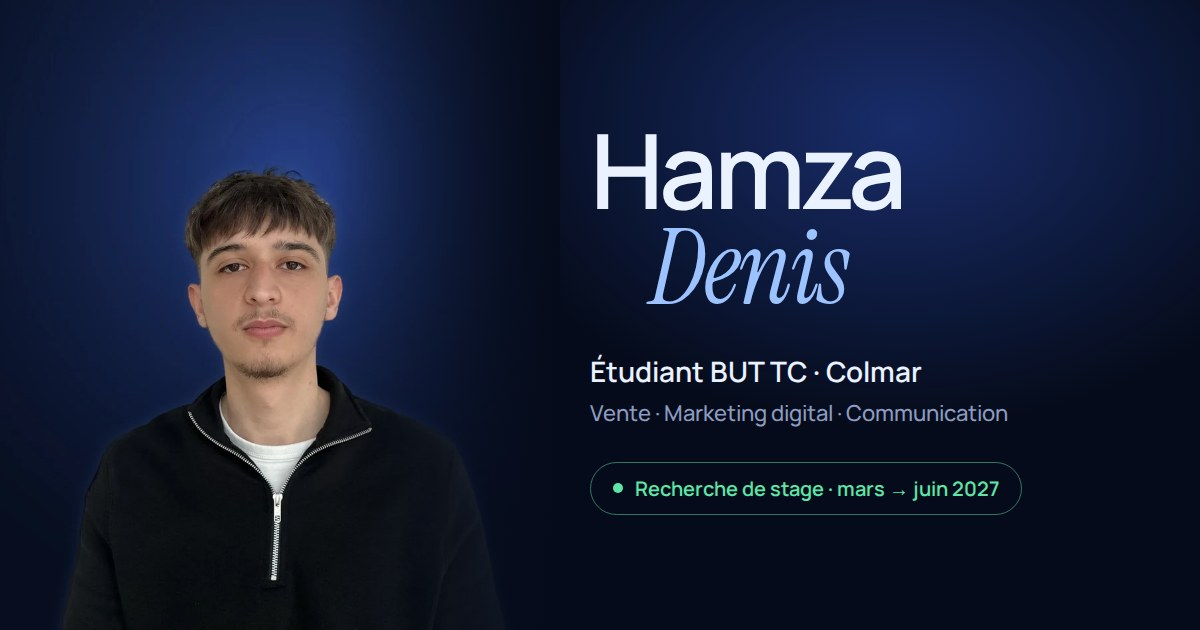
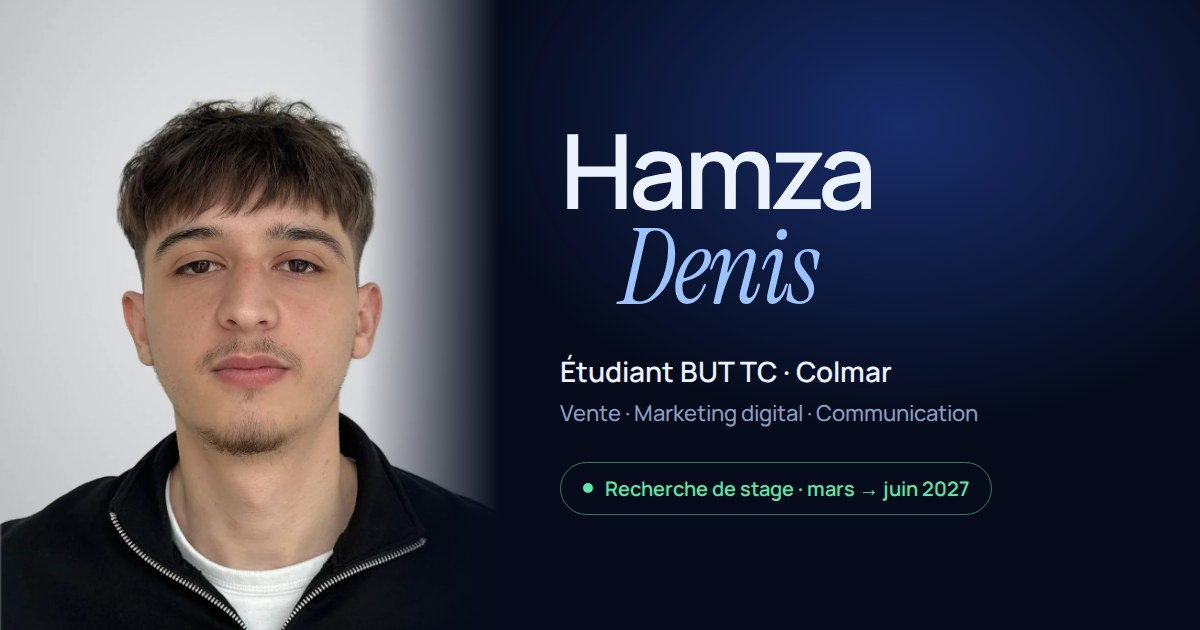
Replace portrait with Hamza's new studio photo
Claude-Session: https://claude.ai/code/session_01MzLz1JE9xj3UhANKwb59T4

diff --git a/styles.css b/styles.css
@@ -291,7 +291,7 @@ body.is-ready .hero__cta { transition-delay: 1.1s; }
   border: 1px solid var(--line);
   display: grid; place-items: center;
 }
-.portrait__inner img { width: 100%; height: 100%; object-fit: cover; object-position: 50% 20%; filter: saturate(0.92) contrast(1.03); }
+.portrait__inner img { width: 100%; height: 100%; object-fit: cover; object-position: 50% 30%; filter: saturate(0.95) contrast(1.02); }
 .portrait__inner::after {
   content: ""; position: absolute; inset: 0;
   background: linear-gradient(180deg, transparent 55%, rgba(5, 11, 26, 0.55)), linear-gradient(200deg, rgba(61, 107, 255, 0.18), transparent 40%);

diff --git a/en.html b/en.html
@@ -112,7 +112,7 @@
         <div class="about__visual reveal">
           <div class="portrait" data-tilt>
             <div class="portrait__inner">
-              <img src="assets/img/hamza.webp" alt="Portrait of Hamza Denis" width="907" height="948" />
+              <img src="assets/img/hamza.webp" alt="Portrait of Hamza Denis" width="1089" height="1400" />
             </div>
             <div class="portrait__ring"></div>
             <span class="chip chip--1">20 years old</span>

diff --git a/index.html b/index.html
@@ -112,7 +112,7 @@
         <div class="about__visual reveal">
           <div class="portrait" data-tilt>
             <div class="portrait__inner">
-              <img src="assets/img/hamza.webp" alt="Portrait de Hamza Denis" width="907" height="948" />
+              <img src="assets/img/hamza.webp" alt="Portrait de Hamza Denis" width="1089" height="1400" />
             </div>
             <div class="portrait__ring"></div>
             <span class="chip chip--1">20 ans</span>
